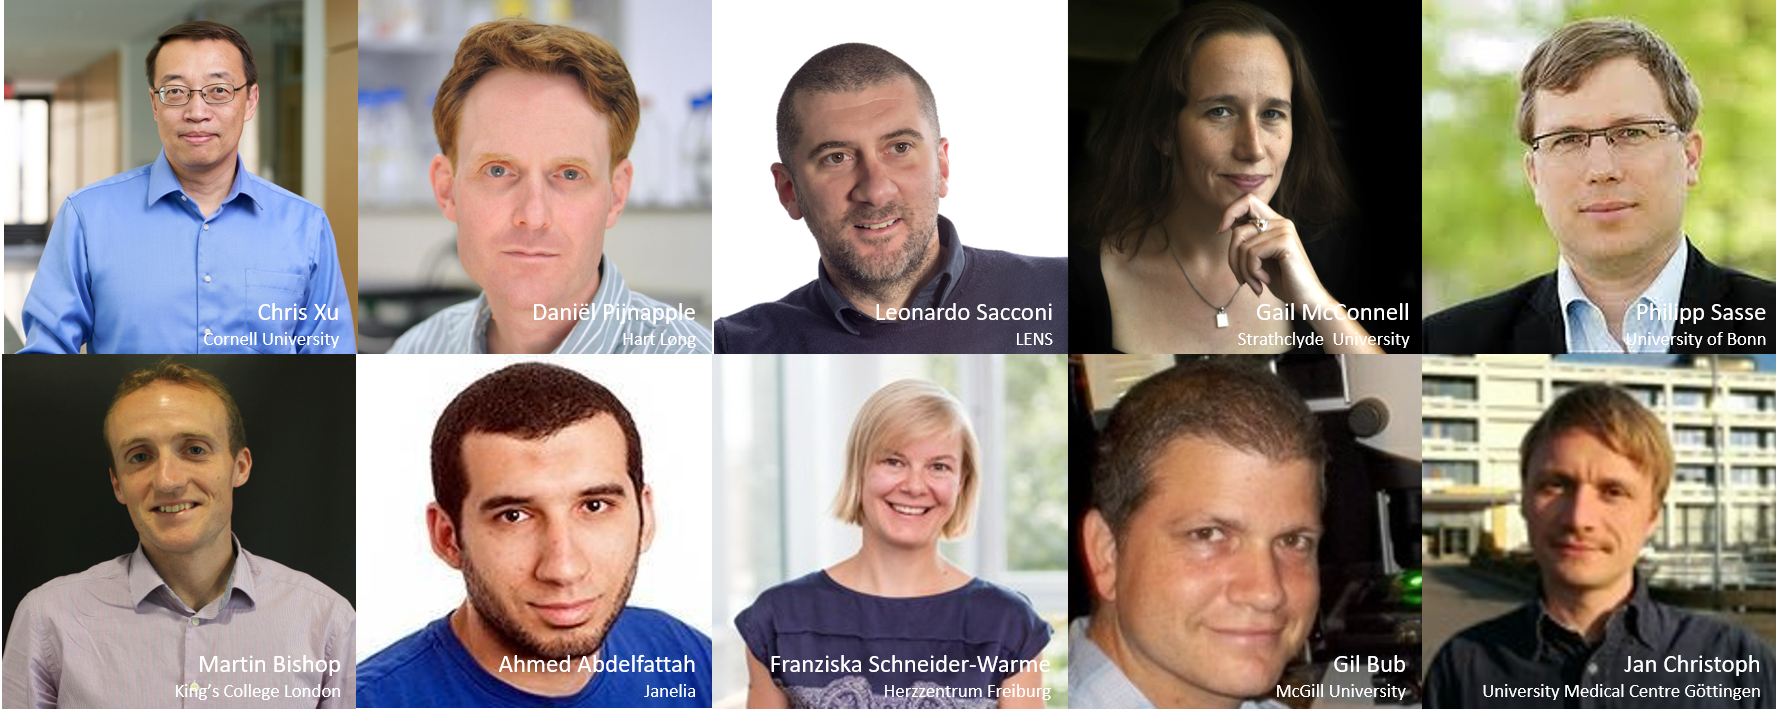
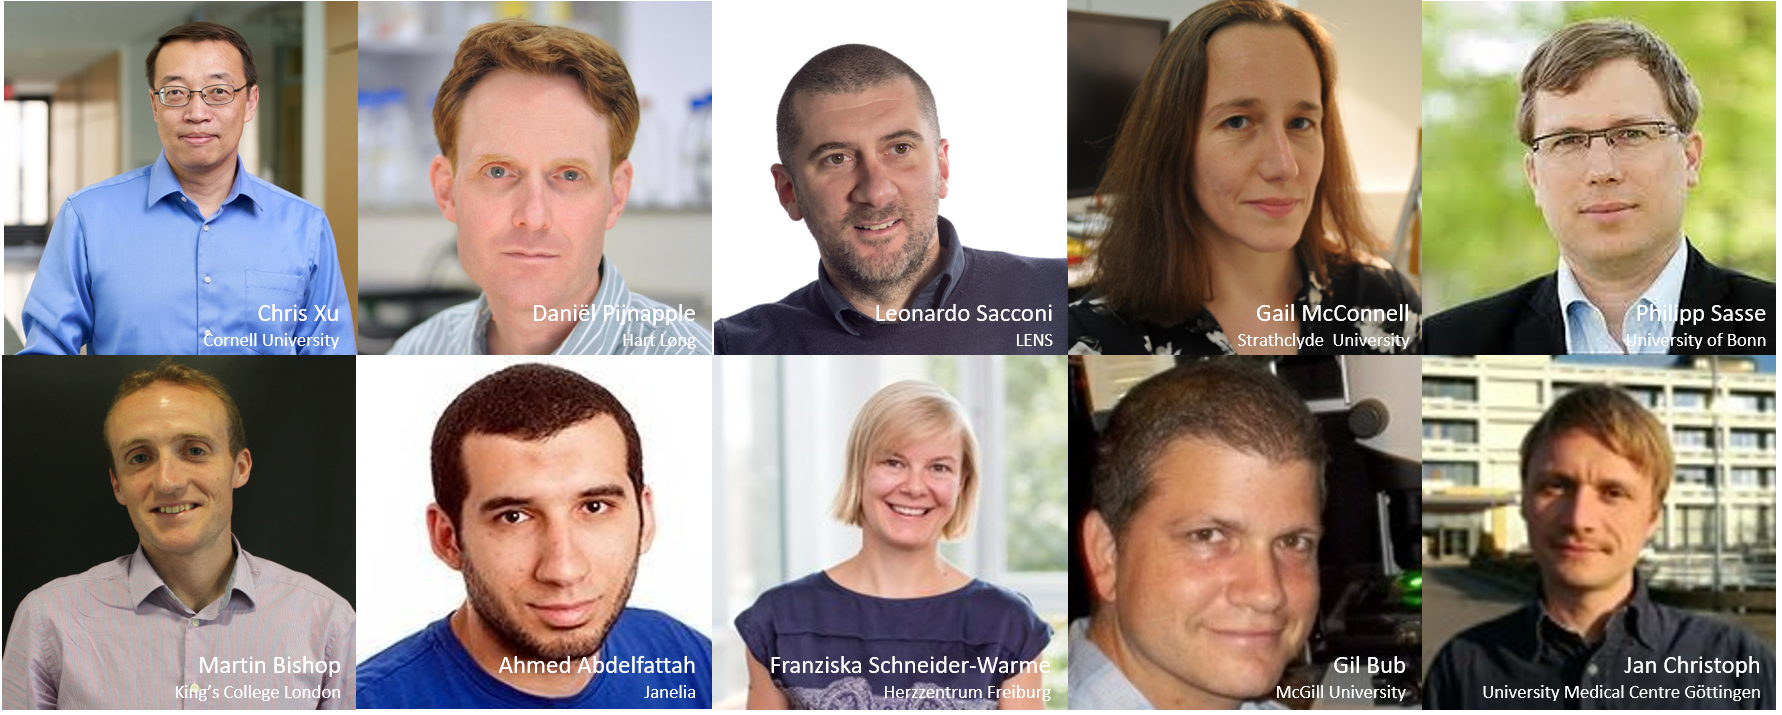
asdf

diff --git a/program/index.html b/program/index.html
@@ -221,7 +221,7 @@ Godfrey Smith and Caroline Muellenbroich
                 17:10
             </td>
             <td class="title">
-                Interesting Title of a Talk 
+                Using the Mesolens for optical mesoscopic imaging with sub-cellular resolution
             </td>
         </tr>
         <tr>

diff --git a/speakers/index.html b/speakers/index.html
@@ -50,7 +50,7 @@
 
     <h4>Speakers</h4>
 
-<img src="assets/speakers/speakers2.png" alt="Speakers" style="width:1000px;height:401px;">
+<img src="assets/speakers/speakers.png" alt="Speakers" style="width:1000px;height:401px;">
 
 
 
